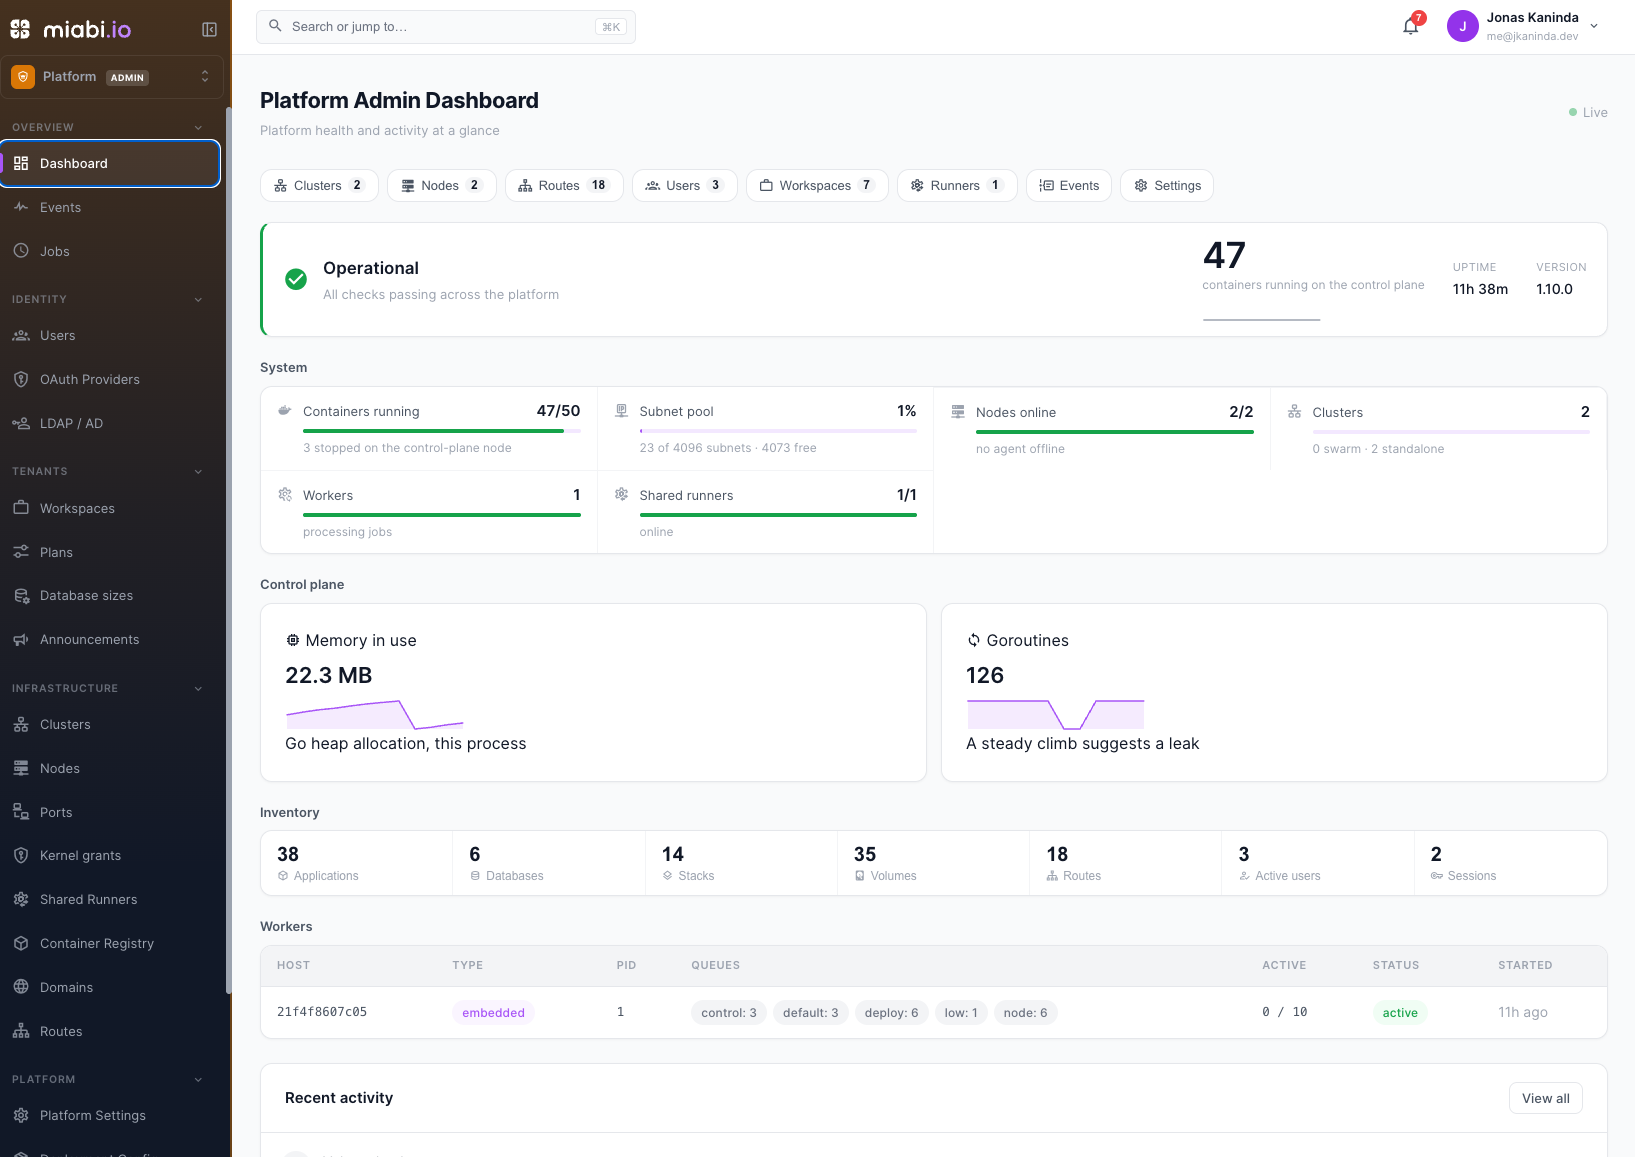
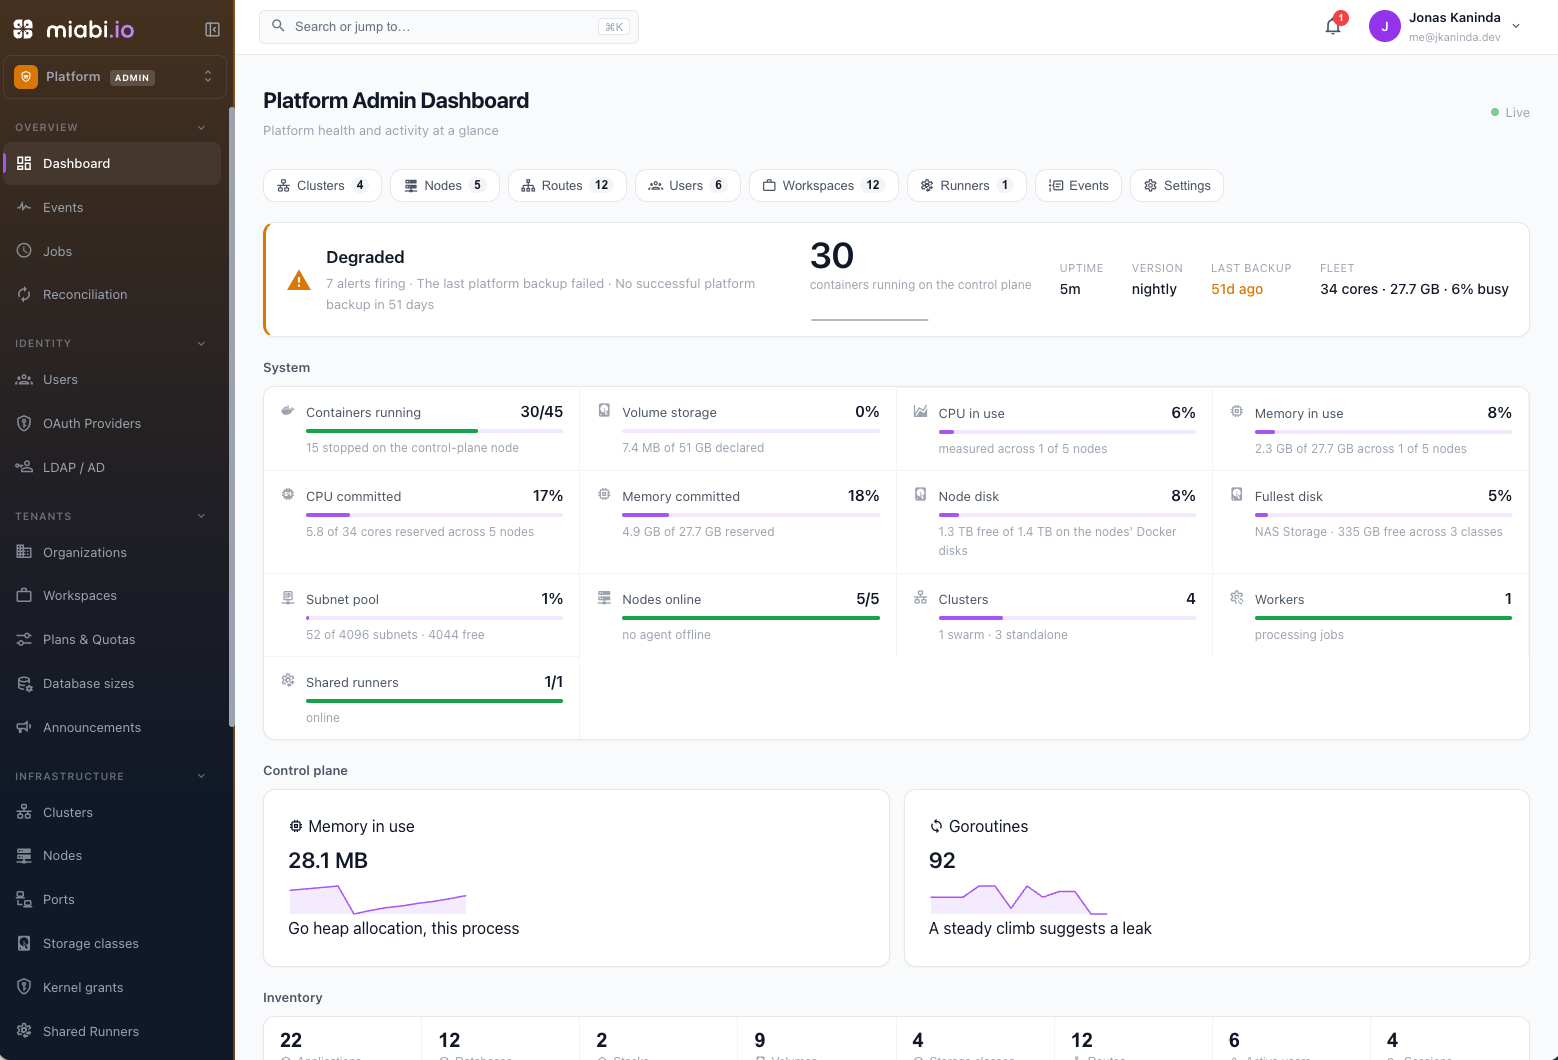
docs: update readme

diff --git a/README.md b/README.md
@@ -173,8 +173,9 @@ Everything in the console is also in the REST API, the CLI, and the Terraform pr
 ### Identity, teams & access
 
 - **Auth** — registration, login with email or username, password reset, JWT sessions with Redis-backed revocation, **API tokens**, and **2FA (TOTP)**
-- **SSO & directory** — OAuth 2.0 / OIDC (GitHub, Google, generic OIDC). Enterprise adds **SAML 2.0**, **SCIM** provisioning, and **LDAP / Active Directory** sign-in on the normal login form, with directory groups mapped onto platform-admin and per-workspace roles
-- **Workspaces & teams** — members, invitations, and organizations; each workspace has a unique **name** handle (its URL and `docker login` namespace) plus a display name, and each user a unique username
+- **SSO & directory** — OAuth 2.0 / OIDC (GitHub, Google, generic OIDC), attachable to an organization so a customer's people land in the customer's realm. Enterprise adds **SAML 2.0**, **SCIM** provisioning, and **LDAP / Active Directory** sign-in on the normal login form, with directory groups mapped onto platform-admin and per-workspace roles
+- **Workspaces & teams** — members and invitations; each workspace has a unique **name** handle (its URL and `docker login` namespace) plus a display name, and each user a unique username
+- **Organizations** — tenant realms that own workspaces and the accounts in them, each with an owner, a workspace cap, its own SSO provider (accounts registered through it land in that realm), and optionally its own **dedicated locations**: nodes nobody else can place on.
 - **RBAC** — **Owner · Admin · Developer · Viewer**, enforced in middleware *and* by `workspace_id` scoping. Enterprise adds custom roles and per-resource policies (a role on a single app, domain, or database)
 - **Container security profiles** — an optional non-root "restricted" profile runs app and job containers as a platform UID with `no-new-privileges`; outbound webhooks are SSRF-guarded
 - **Plans & quotas**, per-workspace **encryption keys** (keyring/DEK), key rotation, and crypto-shred on delete
@@ -185,7 +186,7 @@ Everything in the console is also in the REST API, the CLI, and the Terraform pr
 - **Analytics** — requests/sec, status mix, bandwidth, top routes; p50/p95/p99 latency with a **gateway-vs-upstream split** ("is my app slow, or the gateway?"), error rate, and Apdex; unique visitors, top pages, referrers, countries, and device families. Cookieless, no consent banner, IPs never stored, unique visitors via **HyperLogLog** sketches rather than per-person rows
 - **Log storage** — deployment, pipeline, job, and backup logs externalized from Postgres to a shared filesystem store with a bounded DB tail, retention, size caps, and full-log download; live tailing unchanged
 - Append-only **audit log** of every mutating action, with optional **SIEM streaming** over syslog or webhook (Enterprise)
-- **Admin platform** — nodes and cluster, users, plans, settings, OAuth providers, SSO, license, and SIEM
+- **Admin platform** — nodes and clusters, organizations, users, plans, settings, OAuth providers, SSO, license, and SIEM
 
 ### Marketplace
 
